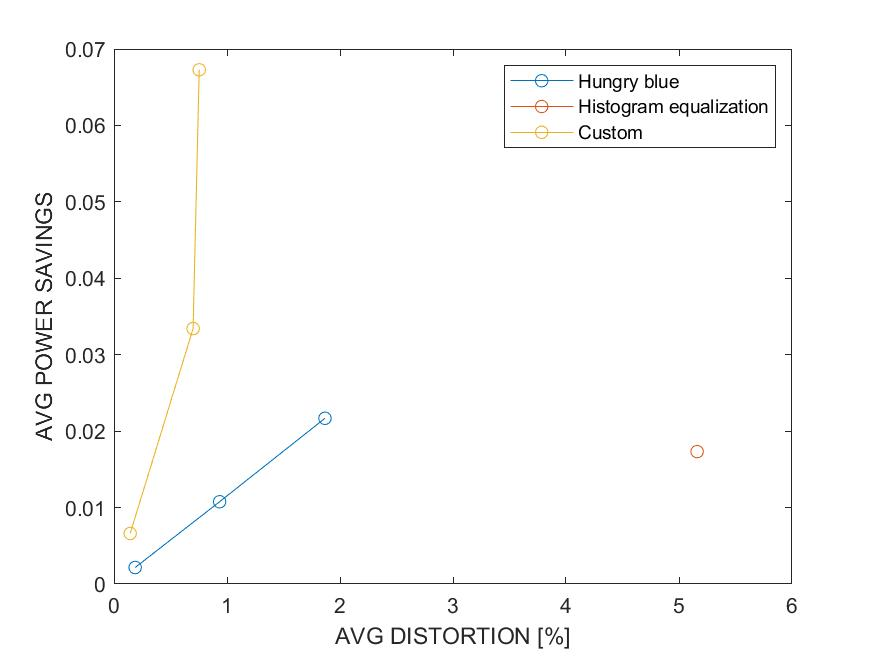
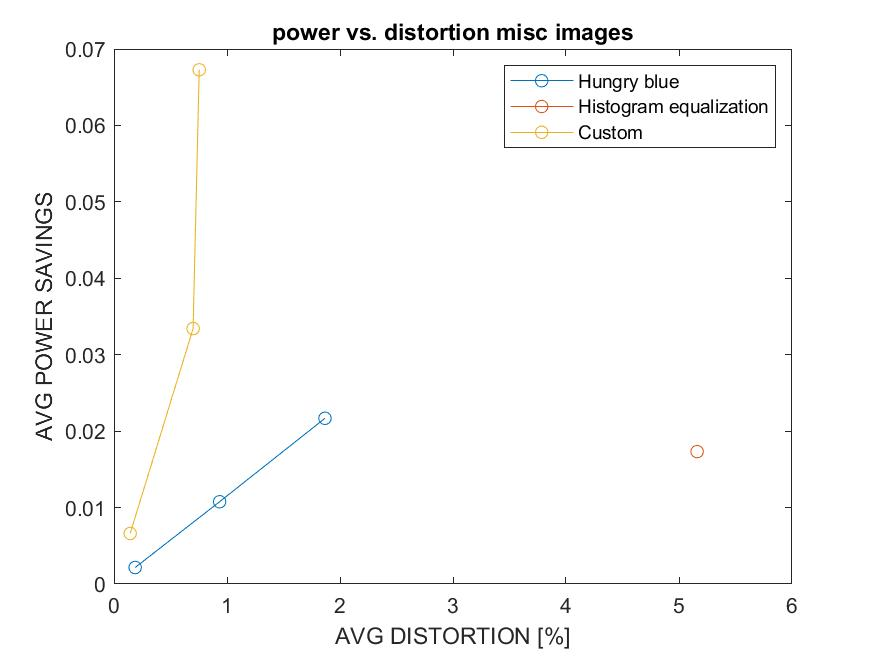
new beatiful figures produced with each script

Changed region(s): [[0.3086, 0.0305, 0.7406, 0.061]]

diff --git a/lab2/auto_image_list1.m b/lab2/auto_image_list1.m
@@ -58,9 +58,15 @@ images_list1.average_distortion_hungry_blue10 = 0;
 images_list1.average_distortion_custom10 = 0;
 
 %savings
-images_list1.savings_hungry_blue1 = zeros(1, length(images_list1.power_hungry_blue1));
-images_list1.savings_hungry_blue5 = zeros(1, length(images_list1.power_hungry_blue1));
-images_list1.savings_hungry_blue10 = zeros(1, length(images_list1.power_hungry_blue1));
+images_list1.savings_hungry_blue1 = zeros(1, length(images_list1.dir));
+images_list1.savings_hungry_blue5 = zeros(1, length(images_list1.dir));
+images_list1.savings_hungry_blue10 = zeros(1, length(images_list1.dir));
+
+images_list1.savings_histo_eq = zeros(1, length(images_list1.dir));
+
+images_list1.savings_custom1 = zeros(1, length(images_list1.dir));
+images_list1.savings_custom5 = zeros(1, length(images_list1.dir));
+images_list1.savings_custom10 = zeros(1, length(images_list1.dir));
 
 %loop for each image in the folder
 for k = 1 : length(images_list1.dir)
@@ -136,16 +142,20 @@ for k = 1 : length(images_list1.dir)
     images_list1.average_power_custom1 = images_list1.average_power_custom1 + (images_list1.original_power(k) - images_list1.power_custom1(k));
     %save savings
     images_list1.savings_hungry_blue1(k) = images_list1.original_power(k) - images_list1.power_hungry_blue1(k);
+    images_list1.savings_histo_eq(k) = images_list1.original_power(k) - images_list1.power_histo_eq(k);
+    images_list1.savings_custom1(k) = images_list1.original_power(k) - images_list1.power_custom1(k);
     %5
     images_list1.average_power_hungry_blue5 = images_list1.average_power_hungry_blue5 + (images_list1.original_power(k) - images_list1.power_hungry_blue5(k));
     images_list1.average_power_custom5 = images_list1.average_power_custom5 + (images_list1.original_power(k) - images_list1.power_custom5(k));
     %save savings
     images_list1.savings_hungry_blue5(k) = images_list1.original_power(k) - images_list1.power_hungry_blue5(k);
+    images_list1.savings_custom5(k) = images_list1.original_power(k) - images_list1.power_custom5(k);
     %10
     images_list1.average_power_hungry_blue10 = images_list1.average_power_hungry_blue10 + (images_list1.original_power(k) - images_list1.power_hungry_blue10(k));
     images_list1.average_power_custom10 = images_list1.average_power_custom10 + (images_list1.original_power(k) - images_list1.power_custom10(k));
     %save savings
     images_list1.savings_hungry_blue10(k) = images_list1.original_power(k) - images_list1.power_hungry_blue10(k);
+    images_list1.savings_custom10(k) = images_list1.original_power(k) - images_list1.power_custom10(k);
 
     %avg distortion
     %1
@@ -193,6 +203,7 @@ y_distortion_histo_eq = images_list1.average_distortion_histo_eq;
 x_savings_custom = [images_list1.average_power_custom1,images_list1.average_power_custom5,images_list1.average_power_custom10];
 y_distortion_custom = [images_list1.average_distortion_custom1 ,images_list1.average_distortion_custom5,images_list1.average_distortion_custom10];
 
+%plot of how the consumption evolves with transformations
 figure1 = figure;
 plot(y_distortion_hungry_blue,x_savings_hungry_blue, '-o');
 hold on;
@@ -202,33 +213,67 @@ plot(y_distortion_custom, x_savings_custom, '-o');
 xlabel('AVG DISTORTION [%]');
 ylabel('AVG POWER SAVINGS');
 legend('Hungry blue', 'Histogram equalization', 'Custom');
-saveas(figure1, 'power_vs_distortion1.jpg');
+title('power vs. distortion misc images');
+saveas(figure1, 'figures/power_vs_distortion1.jpg');
 
-%%
-x_name = strings(1, length(images_list1));
-y_power_cons_blue1 = zeros(1, length(images_list1.power_hungry_blue1));
-y_power_cons_blue5 = zeros(1, length(images_list1.power_hungry_blue5));
-y_power_cons_blue10 = zeros(1, length(images_list1.power_hungry_blue10));
-y_hungry_blue_total = zeros(1, length(images_list1.power_hungry_blue10)*3);
+%plot of power differences for hungry blue for every image
+%x_name = strings(1, length(images_list1));
+%y_power_cons_blue1 = zeros(1, length(images_list1.power_hungry_blue1));
+%y_power_cons_blue5 = zeros(1, length(images_list1.power_hungry_blue5));
+%y_power_cons_blue10 = zeros(1, length(images_list1.power_hungry_blue10));
+%y_hungry_blue_total = zeros(1, length(images_list1.power_hungry_blue10)*3);
 
-x_name = categorical(images_list1.name);
-x_name = reordercats(x_name);
-y_power_cons_blue1 = images_list1.savings_hungry_blue1;
-y_power_cons_blue5 = images_list1.savings_hungry_blue5;
-y_power_cons_blue10 = images_list1.savings_hungry_blue10;
+%x_name = categorical(images_list1.name);
+%x_name = reordercats(x_name);
+%y_power_cons_blue1 = images_list1.savings_hungry_blue1;
+%y_power_cons_blue5 = images_list1.savings_hungry_blue5;
+%y_power_cons_blue10 = images_list1.savings_hungry_blue10;
 
-
-y_hungry_blue_total = [y_power_cons_blue1 ; y_power_cons_blue5 ; y_power_cons_blue10];
-ylabel('POWER SAVINGS');
-fig_bar = bar(x_name, y_hungry_blue_total);
-l = cell(1,3);
-l{1}='1%'; l{2}='5%'; l{3}='10%';
-legend(fig_bar,l);
-ylabel('SAVINGS HUNGRY BLUE');
+%fig_bar1 = figure;
+%y_hungry_blue_total = [y_power_cons_blue1 ; y_power_cons_blue5 ; y_power_cons_blue10];
+%ylabel('POWER SAVINGS');
+%fig_bar1 = bar(x_name, y_hungry_blue_total);
+%l = cell(1,3);
+%l{1}='1%'; l{2}='5%'; l{3}='10%';
+%legend(fig_bar1,l);
+%ylabel('SAVINGS HUNGRY BLUE');
 %ax = gca;
-%exportgraphics(ax, 'power_savings_hungry_blue.jpg', 'resolution',600);
+%exportgraphics(ax, 'figures/power_savings_hungry_blue_misc.jpg', 'resolution',600);
 
+%plot of power differences for histogram equalization for every image
+%y_power_histo_eq = zeros(1, length(images_list1.power_histo_eq));
 
+%y_power_histo_eq = images_list1.savings_histo_eq;
+
+%fig_bar4 = figure;
+%ylabel('POWER SAVINGS');
+%fig_bar4 = bar(x_name, y_power_histo_eq);
+%ylabel('SAVINGS HISTOGRAM EQUALIZATION');
+%ax = gca;
+%exportgraphics(ax, 'figures/power_savings_histo_eq_misc.jpg', 'resolution',600);
+
+%plot of power differences for custom transformation for every image
+%y_power_cons_custom1 = zeros(1, length(images_list1.power_custom1));
+%y_power_cons_custom5 = zeros(1, length(images_list1.power_custom5));
+%y_power_cons_custom10 = zeros(1, length(images_list1.power_custom10));
+%y_hungry_custom_total = zeros(1, length(images_list1.power_custom10)*3);
+
+%y_power_cons_custom1 = images_list1.savings_custom1;
+%y_power_cons_custom5 = images_list1.savings_custom5;
+%y_power_cons_custom10 = images_list1.savings_custom10;
+
+%fig_bar5 = figure;
+%y_custom_total = [y_power_cons_custom1 ; y_power_cons_custom5 ; y_power_cons_custom10];
+%ylabel('POWER SAVINGS');
+%fig_bar5 = bar(x_name, y_custom_total);
+%l = cell(1,3);
+%l{1}='1%'; l{2}='5%'; l{3}='10%';
+%legend(fig_bar5,l);
+%ylabel('SAVINGS CUSTOM TRANSFORMATION');
+%ax = gca;
+%exportgraphics(ax, 'figures/power_savings_custom_misc.jpg', 'resolution',600);
+
+%return the structure 
 structure1 = images_list1;
 end
 

diff --git a/lab2/auto_image_list2.m b/lab2/auto_image_list2.m
@@ -57,6 +57,17 @@ images_list2.average_power_custom10 = 0;
 images_list2.average_distortion_hungry_blue10 = 0;
 images_list2.average_distortion_custom10 = 0;
 
+%savings
+images_list2.savings_hungry_blue1 = zeros(1, length(images_list2.dir));
+images_list2.savings_hungry_blue5 = zeros(1, length(images_list2.dir));
+images_list2.savings_hungry_blue10 = zeros(1, length(images_list2.dir));
+
+images_list2.savings_histo_eq = zeros(1, length(images_list2.dir));
+
+images_list2.savings_custom1 = zeros(1, length(images_list2.dir));
+images_list2.savings_custom5 = zeros(1, length(images_list2.dir));
+images_list2.savings_custom10 = zeros(1, length(images_list2.dir));
+
 %loop for each image in the folder
 for k = 1 : length(images_list2.dir)
 
@@ -121,7 +132,6 @@ for k = 1 : length(images_list2.dir)
     images_list2.differnce_hungry_blue10(k) = image_difference(image, image_hungry_blue);
     images_list2.differnce_custom10(k) = image_difference(image, image_custom);
 
-    k
     %compute distortion
     images_list2.distortion_hungry_blue10(k) = distortion(images_list2.differnce_hungry_blue10(k), image);
     images_list2.distortion_custom10(k) = distortion(images_list2.differnce_custom10(k), image);
@@ -131,12 +141,25 @@ for k = 1 : length(images_list2.dir)
     images_list2.average_power_hungry_blue1 = images_list2.average_power_hungry_blue1 + (images_list2.original_power(k) - images_list2.power_hungry_blue1(k));
     images_list2.average_power_histo_eq =  images_list2.average_power_histo_eq + (images_list2.original_power(k) - images_list2.power_histo_eq(k));
     images_list2.average_power_custom1 = images_list2.average_power_custom1 + (images_list2.original_power(k) - images_list2.power_custom1(k));
+    %save savings
+    images_list2.savings_hungry_blue1(k) = images_list2.original_power(k) - images_list2.power_hungry_blue1(k);
+    images_list2.savings_histo_eq(k) = images_list2.original_power(k) - images_list2.power_histo_eq(k);
+    images_list2.savings_custom1(k) = images_list2.original_power(k) - images_list2.power_custom1(k);
+
     %5
     images_list2.average_power_hungry_blue5 = images_list2.average_power_hungry_blue5 + (images_list2.original_power(k) - images_list2.power_hungry_blue5(k));
     images_list2.average_power_custom5 = images_list2.average_power_custom5 + (images_list2.original_power(k) - images_list2.power_custom5(k));
+    %save savings
+    images_list2.savings_hungry_blue5(k) = images_list2.original_power(k) - images_list2.power_hungry_blue5(k);
+    images_list2.savings_custom5(k) = images_list2.original_power(k) - images_list2.power_custom5(k);
+
     %10
     images_list2.average_power_hungry_blue10 = images_list2.average_power_hungry_blue10 + (images_list2.original_power(k) - images_list2.power_hungry_blue10(k));
     images_list2.average_power_custom10 = images_list2.average_power_custom10 + (images_list2.original_power(k) - images_list2.power_custom10(k));
+    %save savings
+    images_list2.savings_hungry_blue10(k) = images_list2.original_power(k) - images_list2.power_hungry_blue10(k);
+    images_list2.savings_custom10(k) = images_list2.original_power(k) - images_list2.power_custom10(k);
+
 
     %avg distortion
     %1
@@ -194,7 +217,8 @@ plot(y_distortion_custom, x_savings_custom, '-o');
 xlabel('AVG DISTORTION [%]');
 ylabel('AVG POWER CONSUMPTION');
 legend('Hungry blue', 'Histogram equalization', 'Custom');
-saveas(figure2, 'power_vs_distortion2.jpg');
+title('power vs. distortion BSR database');
+saveas(figure2, 'figures/power_vs_distortion2.jpg');
 
 structure2 = images_list2;
 

diff --git a/lab2/auto_image_list3.m b/lab2/auto_image_list3.m
@@ -57,6 +57,18 @@ images_list3.average_power_custom10 = 0;
 images_list3.average_distortion_hungry_blue10 = 0;
 images_list3.average_distortion_custom10 = 0;
 
+%savings
+images_list3.savings_hungry_blue1 = zeros(1, length(images_list3.dir));
+images_list3.savings_hungry_blue5 = zeros(1, length(images_list3.dir));
+images_list3.savings_hungry_blue10 = zeros(1, length(images_list3.dir));
+
+images_list3.savings_histo_eq = zeros(1, length(images_list3.dir));
+
+images_list3.savings_custom1 = zeros(1, length(images_list3.dir));
+images_list3.savings_custom5 = zeros(1, length(images_list3.dir));
+images_list3.savings_custom10 = zeros(1, length(images_list3.dir));
+
+
 %loop for each image in the folder
 for k = 1 : length(images_list3.dir)
 
@@ -129,12 +141,24 @@ for k = 1 : length(images_list3.dir)
     images_list3.average_power_hungry_blue1 = images_list3.average_power_hungry_blue1 + (images_list3.original_power(k) - images_list3.power_hungry_blue1(k));
     images_list3.average_power_histo_eq =  images_list3.average_power_histo_eq + (images_list3.original_power(k) - images_list3.power_histo_eq(k));
     images_list3.average_power_custom1 = images_list3.average_power_custom1 + (images_list3.original_power(k) - images_list3.power_custom1(k));
+    %save savings
+    images_list3.savings_hungry_blue1(k) = images_list3.original_power(k) - images_list3.power_hungry_blue1(k);
+    images_list3.savings_histo_eq(k) = images_list3.original_power(k) - images_list3.power_histo_eq(k);
+    images_list3.savings_custom1(k) = images_list3.original_power(k) - images_list3.power_custom1(k);
+    
     %5
     images_list3.average_power_hungry_blue5 = images_list3.average_power_hungry_blue5 + (images_list3.original_power(k) - images_list3.power_hungry_blue5(k));
     images_list3.average_power_custom5 = images_list3.average_power_custom5 + (images_list3.original_power(k) - images_list3.power_custom5(k));
+    %save savings
+    images_list3.savings_hungry_blue5(k) = images_list3.original_power(k) - images_list3.power_hungry_blue5(k);
+    images_list3.savings_custom5(k) = images_list3.original_power(k) - images_list3.power_custom5(k);
+
     %10
     images_list3.average_power_hungry_blue10 = images_list3.average_power_hungry_blue10 + (images_list3.original_power(k) - images_list3.power_hungry_blue10(k));
     images_list3.average_power_custom10 = images_list3.average_power_custom10 + (images_list3.original_power(k) - images_list3.power_custom10(k));
+    %save savings
+    images_list3.savings_hungry_blue10(k) = images_list3.original_power(k) - images_list3.power_hungry_blue10(k);
+    images_list3.savings_custom10(k) = images_list3.original_power(k) - images_list3.power_custom10(k);
 
     %avg distortion
     %1
@@ -192,8 +216,9 @@ plot(y_distortion_custom, x_savings_custom, '-o');
 xlabel('AVG DISTORTION [%]');
 ylabel('AVG POWER CONSUMPTION');
 legend('Hungry blue', 'Histogram equalization', 'Custom');
+title('power vs. distortion screenshots');
+saveas(figure3, 'figures/power_vs_distortion3.jpg');
 
-saveas(figure3, 'power_vs_distortion3.jpg');
 structure3 = images_list3;
 
 end

diff --git a/lab2/bar_hungry_blue.m b/lab2/bar_hungry_blue.m
@@ -1,0 +1,26 @@
+function bar_hungry_blue(images_list)
+
+    x_name = strings(1, length(images_list));
+    y_power_cons_blue1 = zeros(1, length(images_list.power_hungry_blue1));
+    y_power_cons_blue5 = zeros(1, length(images_list.power_hungry_blue5));
+    y_power_cons_blue10 = zeros(1, length(images_list.power_hungry_blue10));
+    y_hungry_blue_total = zeros(1, length(images_list.power_hungry_blue10)*3);
+
+    x_name = categorical(images_list.name);
+    x_name = reordercats(x_name);
+    y_power_cons_blue1 = images_list.savings_hungry_blue1;
+    y_power_cons_blue5 = images_list.savings_hungry_blue5;
+    y_power_cons_blue10 = images_list.savings_hungry_blue10;
+
+    fig_bar1 = figure;
+    y_hungry_blue_total = [y_power_cons_blue1 ; y_power_cons_blue5 ; y_power_cons_blue10];
+    ylabel('POWER SAVINGS');
+    fig_bar1 = bar(x_name, y_hungry_blue_total);
+    l = cell(1,3);
+    l{1}='1%'; l{2}='5%'; l{3}='10%';
+    legend(fig_bar1,l);
+    ylabel('SAVINGS HUNGRY BLUE');
+    ax = gca;
+    exportgraphics(ax, 'figures/power_savings_hungry_blue_list.jpg', 'resolution',600); %remember to change name to specify the list
+
+end

diff --git a/lab2/bar_custom_transformation.m b/lab2/bar_custom_transformation.m
@@ -1,0 +1,28 @@
+function bar_custom_transformation(images_list)
+
+    x_name = strings(1, length(images_list));
+
+    x_name = categorical(images_list.name);
+    x_name = reordercats(x_name);
+
+    y_power_cons_custom1 = zeros(1, length(images_list.power_custom1));
+    y_power_cons_custom5 = zeros(1, length(images_list.power_custom5));
+    y_power_cons_custom10 = zeros(1, length(images_list.power_custom10));
+    y_hungry_custom_total = zeros(1, length(images_list.power_custom10)*3);
+
+    y_power_cons_custom1 = images_list.savings_custom1;
+    y_power_cons_custom5 = images_list.savings_custom5;
+    y_power_cons_custom10 = images_list.savings_custom10;
+
+    fig_bar5 = figure;
+    y_custom_total = [y_power_cons_custom1 ; y_power_cons_custom5 ; y_power_cons_custom10];
+    ylabel('POWER SAVINGS');
+    fig_bar5 = bar(x_name, y_custom_total);
+    l = cell(1,3);
+    l{1}='1%'; l{2}='5%'; l{3}='10%';
+    legend(fig_bar5,l);
+    ylabel('SAVINGS CUSTOM TRANSFORMATION');
+    ax = gca;
+    exportgraphics(ax, 'figures/power_savings_custom_list.jpg', 'resolution',600); %remember to change name to specify the list
+
+end

diff --git a/lab2/day1.m b/lab2/day1.m
@@ -1,5 +1,3 @@
-clear
-clc
 close all
 
 images_list1 = struct;
@@ -11,8 +9,27 @@ images_list2.dir = dir(fullfile("BSR_bsds500/BSR/BSDS500/data/images/train/*.jpg
 images_list3.dir = dir(fullfile("screenshots/*.png")); % 5 images 
 
 %launch scripts that will fill data structure
+%images in misc folder
 images_list1 = auto_image_list1(images_list1);
+%images in train folder of BSR dataset
+images_list2 = auto_image_list2(images_list2);
+%screenshots
+images_list3 = auto_image_list3(images_list3);
 
-%images_list2 = auto_image_list2(images_list2);
+%produce figures for misc
+bar_hungry_blue(images_list1);
+bar_histo_eq(images_list1);
+bar_custom_transformation(images_list1);
 
-%images_list3 = auto_image_list3(images_list3);
+%produce figures for BSD dataset
+bar_hungry_blue(images_list2);
+bar_histo_eq(images_list2);
+bar_custom_transformation(images_list2);
+
+%produce figures for screenshots
+bar_hungry_blue(images_list3);
+bar_histo_eq(images_list3);
+bar_custom_transformation(images_list3);
+
+
+

diff --git a/lab2/bar_histo_eq.m b/lab2/bar_histo_eq.m
@@ -1,0 +1,19 @@
+function bar_histo_eq(images_list)
+
+    x_name = strings(1, length(images_list));
+
+    x_name = categorical(images_list.name);
+    x_name = reordercats(x_name);
+
+    y_power_histo_eq = zeros(1, length(images_list.power_histo_eq));
+
+    y_power_histo_eq = images_list.savings_histo_eq;
+
+    fig_bar4 = figure;
+    ylabel('POWER SAVINGS');
+    fig_bar4 = bar(x_name, y_power_histo_eq);
+    ylabel('SAVINGS HISTOGRAM EQUALIZATION');
+    ax = gca;
+    exportgraphics(ax, 'figures/power_savings_histo_eq_list.jpg', 'resolution',600); %remember to change name to specify the list
+
+end
